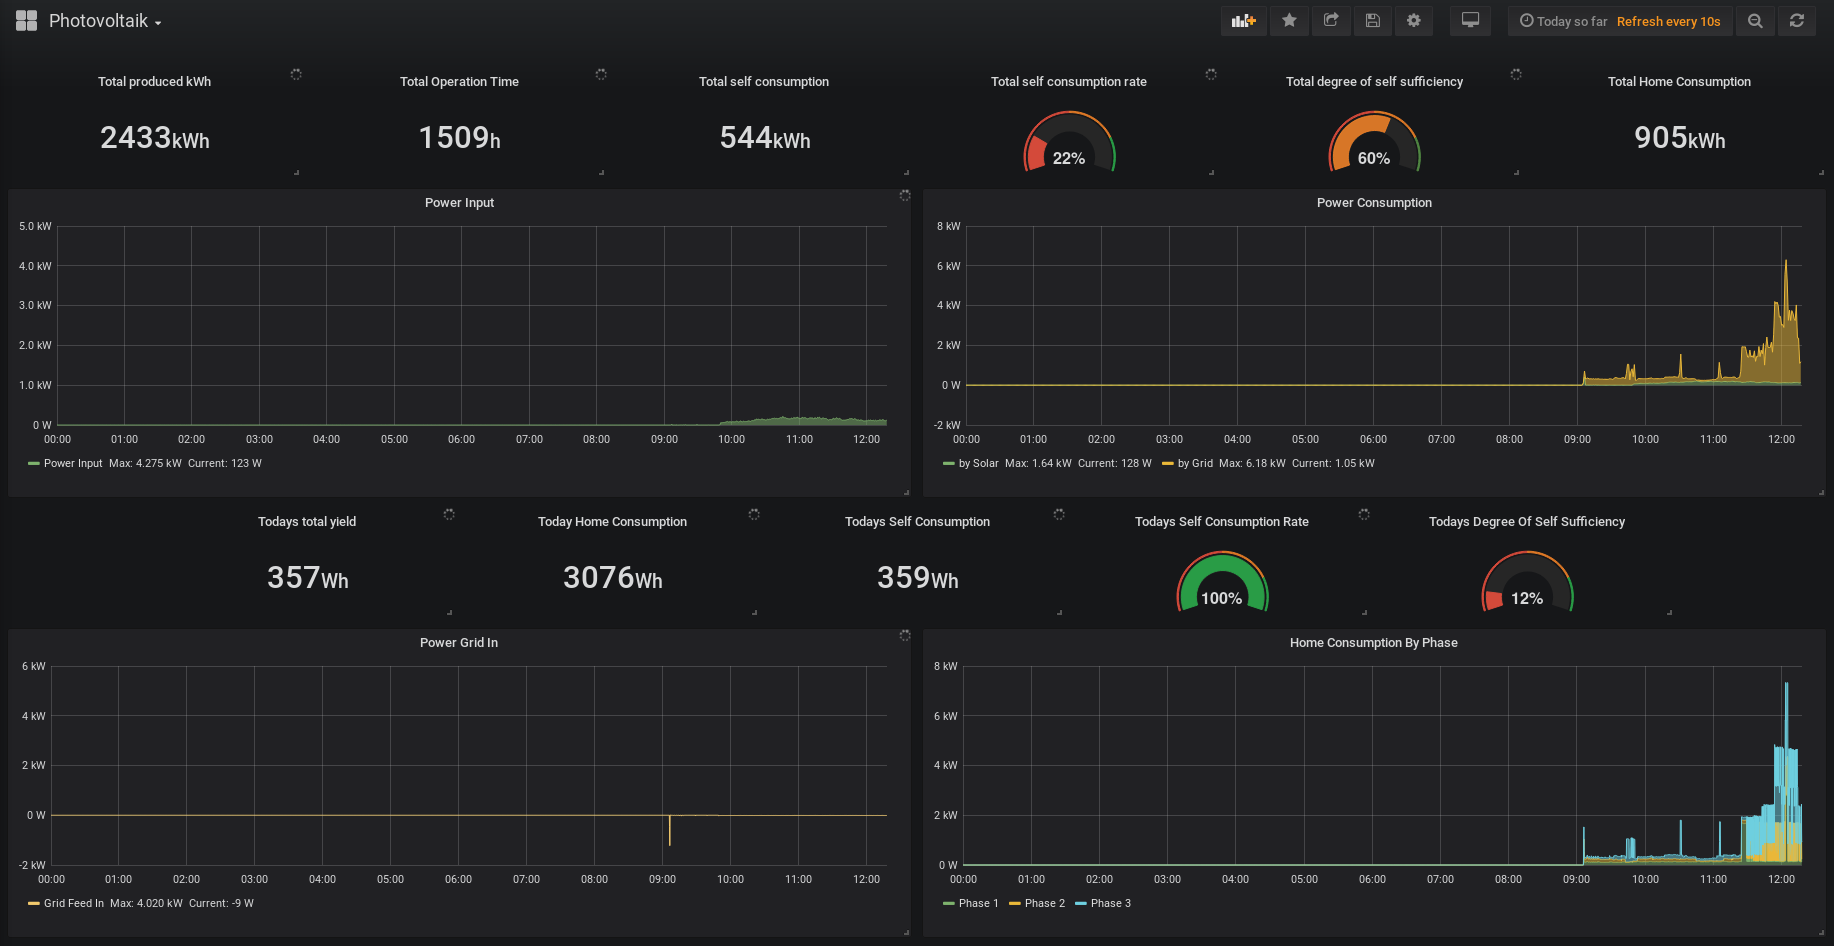
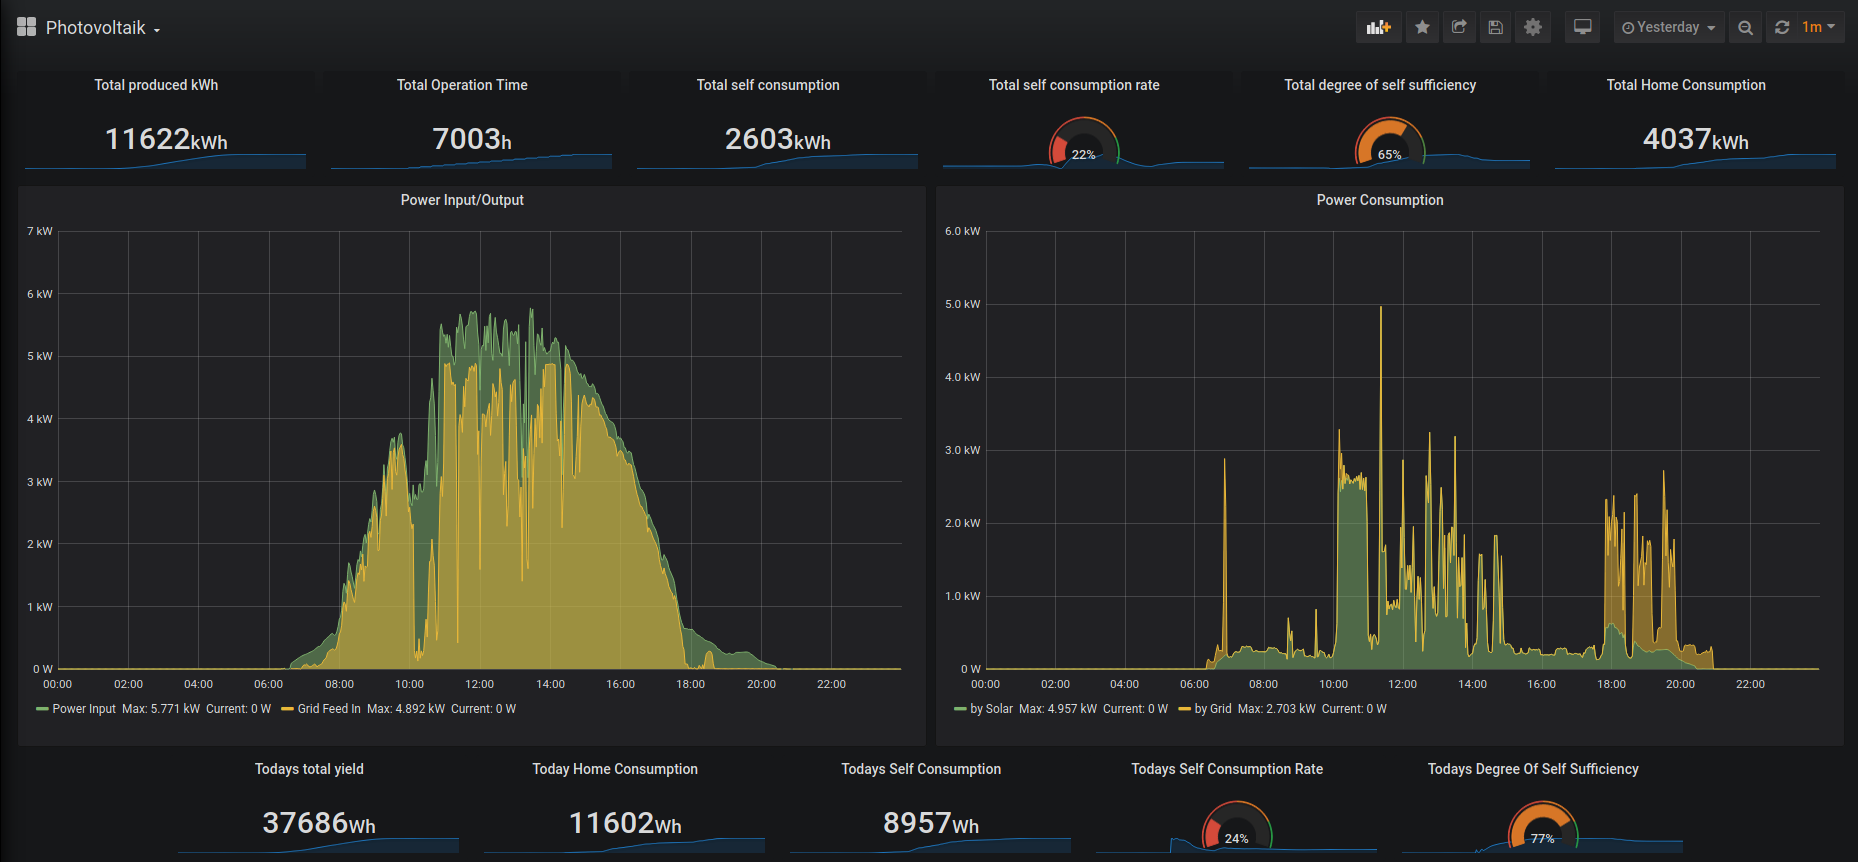
Updata grafana-dashboard.png

diff --git a/README.md b/README.md
@@ -25,7 +25,7 @@ There's also a Docker Image available on [Docker Hub](https://hub.docker.com/r/s
 By logging the data with this script it's easily possible to create a nice
 Grafana Dashboard to display some of the interesting data:
 
-![My dashboard on a rainy day in Germany](https://raw.githubusercontent.com/svijee/kostal-dataexporter/master/img/grafana-dashboard.png)
+![My dashboard on a sunny day in Germany](https://raw.githubusercontent.com/svijee/kostal-dataexporter/master/img/grafana-dashboard.png)
 
 ## Note
 
